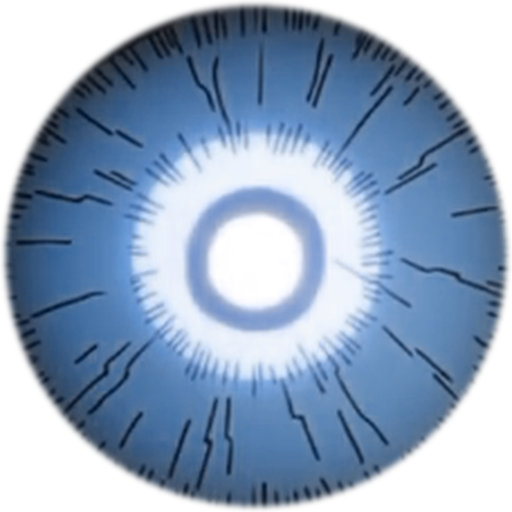
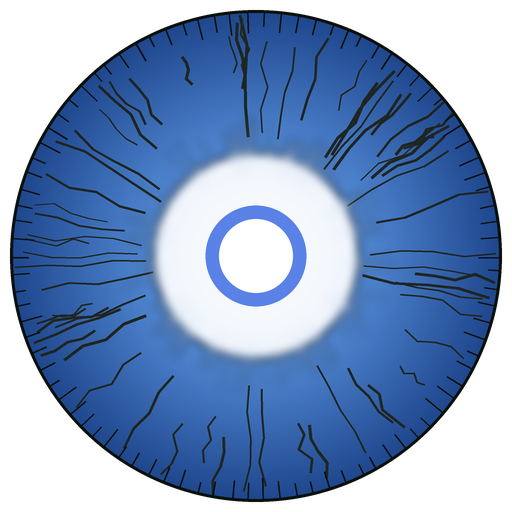
Flow do Aiku (v126d): juntado com a v126c (regra do Shidou mantida), olhos desenhados e subidos; Shidou com area maior
- merge da cena do Aiku feita na nuvem: _G.FlowCondicao agora usa a regra nova do Shidou
  (bola no ar em cima, _G.FlowBolaEmCima) + o Duelo do Aiku
- olhos do Aiku DESENHADOS (docs/texturas/gerar_olho_aiku.py) no lugar do recorte borrado do
  video; subidos: verde 86995361097888, azul 126520926483996
- Shidou: area pra ativar maior (raio 10->14, altura max 30->36, graca 1.5->2.0s)

diff --git a/docs/texturas/gerar_olho_aiku.py b/docs/texturas/gerar_olho_aiku.py
@@ -1,0 +1,79 @@
+"""Íris do Flow do Aiku DESENHADA (v126d): mesmo desenho do anime (degradê, riscos radiais
+pretos, halo branco no centro, anel colorido e pupila branca), nítida — no lugar do recorte
+do quadro do vídeo (borrado). Gera aiku_olho_verde.png e aiku_olho_azul.png (512x512)."""
+import math
+import os
+import random
+from PIL import Image, ImageDraw, ImageFilter
+
+AQUI = os.path.dirname(os.path.abspath(__file__))
+G = 4  # desenha 4x maior e reduz (antisserrilhado)
+S = 512 * G
+C = S / 2
+R = S * 0.48
+
+
+def olho(nome, borda, meio, claro, anel, semente):
+    rnd = random.Random(semente)
+    img = Image.new('RGBA', (S, S), (0, 0, 0, 0))
+    d = ImageDraw.Draw(img)
+    # degradê radial (borda escura -> meio -> claro perto do centro)
+    passos = 220
+    for i in range(passos):
+        u = i / (passos - 1)  # 0 = borda, 1 = centro
+        r = R * (1 - u)
+        if u < 0.55:
+            k = u / 0.55
+            cor = tuple(int(borda[j] + (meio[j] - borda[j]) * k) for j in range(3))
+        else:
+            k = (u - 0.55) / 0.45
+            cor = tuple(int(meio[j] + (claro[j] - meio[j]) * k) for j in range(3))
+        d.ellipse((C - r, C - r, C + r, C + r), fill=cor + (255,))
+    # riscos radiais pretos (de fora pra dentro), alguns com quebra (raio)
+    for _ in range(64):
+        ang = rnd.uniform(0, 2 * math.pi)
+        r0 = R * rnd.uniform(0.86, 0.99)
+        r1 = R * rnd.uniform(0.42, 0.75)
+        larg = int(rnd.uniform(1.4, 3.2) * G)
+        pts = []
+        n = 4
+        for k in range(n + 1):
+            rr = r0 + (r1 - r0) * k / n
+            a = ang + (rnd.uniform(-0.03, 0.03) if 0 < k < n else 0)
+            pts.append((C + math.cos(a) * rr, C + math.sin(a) * rr))
+        d.line(pts, fill=(12, 20, 16, 235), width=larg, joint='curve')
+    # tracinhos curtos na borda
+    for k in range(90):
+        a = 2 * math.pi * k / 90 + rnd.uniform(-0.01, 0.01)
+        r0, r1 = R * 0.995, R * rnd.uniform(0.9, 0.95)
+        d.line([(C + math.cos(a) * r0, C + math.sin(a) * r0), (C + math.cos(a) * r1, C + math.sin(a) * r1)],
+               fill=(10, 16, 12, 255), width=int(1.6 * G))
+    # halo branco do centro (com raios finos)
+    halo = Image.new('RGBA', (S, S), (0, 0, 0, 0))
+    dh = ImageDraw.Draw(halo)
+    rh = R * 0.42
+    dh.ellipse((C - rh, C - rh, C + rh, C + rh), fill=(255, 255, 255, 235))
+    for _ in range(140):
+        a = rnd.uniform(0, 2 * math.pi)
+        r1 = rh * rnd.uniform(1.05, 1.35)
+        dh.line([(C + math.cos(a) * rh * 0.8, C + math.sin(a) * rh * 0.8), (C + math.cos(a) * r1, C + math.sin(a) * r1)],
+                fill=(255, 255, 255, 200), width=int(1.2 * G))
+    halo = halo.filter(ImageFilter.GaussianBlur(5 * G))
+    img.alpha_composite(halo)
+    # anel colorido e pupila branca
+    d = ImageDraw.Draw(img)
+    ra, re = R * 0.205, R * 0.15
+    d.ellipse((C - ra, C - ra, C + ra, C + ra), fill=anel + (255,))
+    d.ellipse((C - re, C - re, C + re, C + re), fill=(255, 255, 255, 255))
+    # recorte redondo com borda escura fina
+    mascara = Image.new('L', (S, S), 0)
+    ImageDraw.Draw(mascara).ellipse((C - R, C - R, C + R, C + R), fill=255)
+    img.putalpha(Image.composite(img.getchannel('A'), mascara, mascara))
+    ImageDraw.Draw(img).ellipse((C - R, C - R, C + R, C + R), outline=(8, 14, 10, 255), width=int(3 * G))
+    img = img.resize((512, 512), Image.LANCZOS)
+    img.save(os.path.join(AQUI, nome))
+
+
+olho('aiku_olho_verde.png', borda=(40, 110, 45), meio=(95, 185, 90), claro=(190, 245, 170), anel=(80, 190, 170), semente=7)
+olho('aiku_olho_azul.png', borda=(30, 70, 140), meio=(80, 135, 210), claro=(180, 215, 250), anel=(90, 130, 230), semente=11)
+print('ok')
